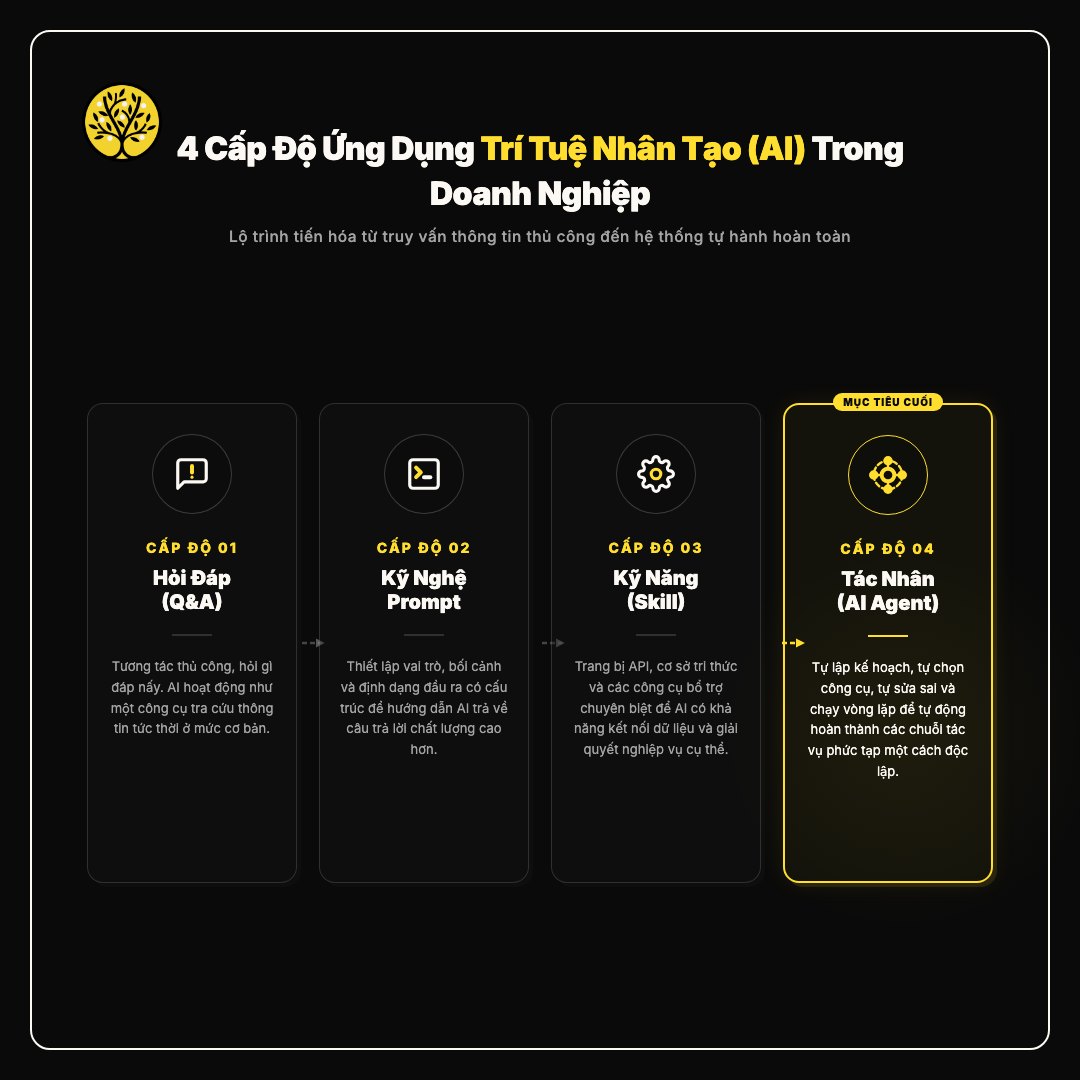
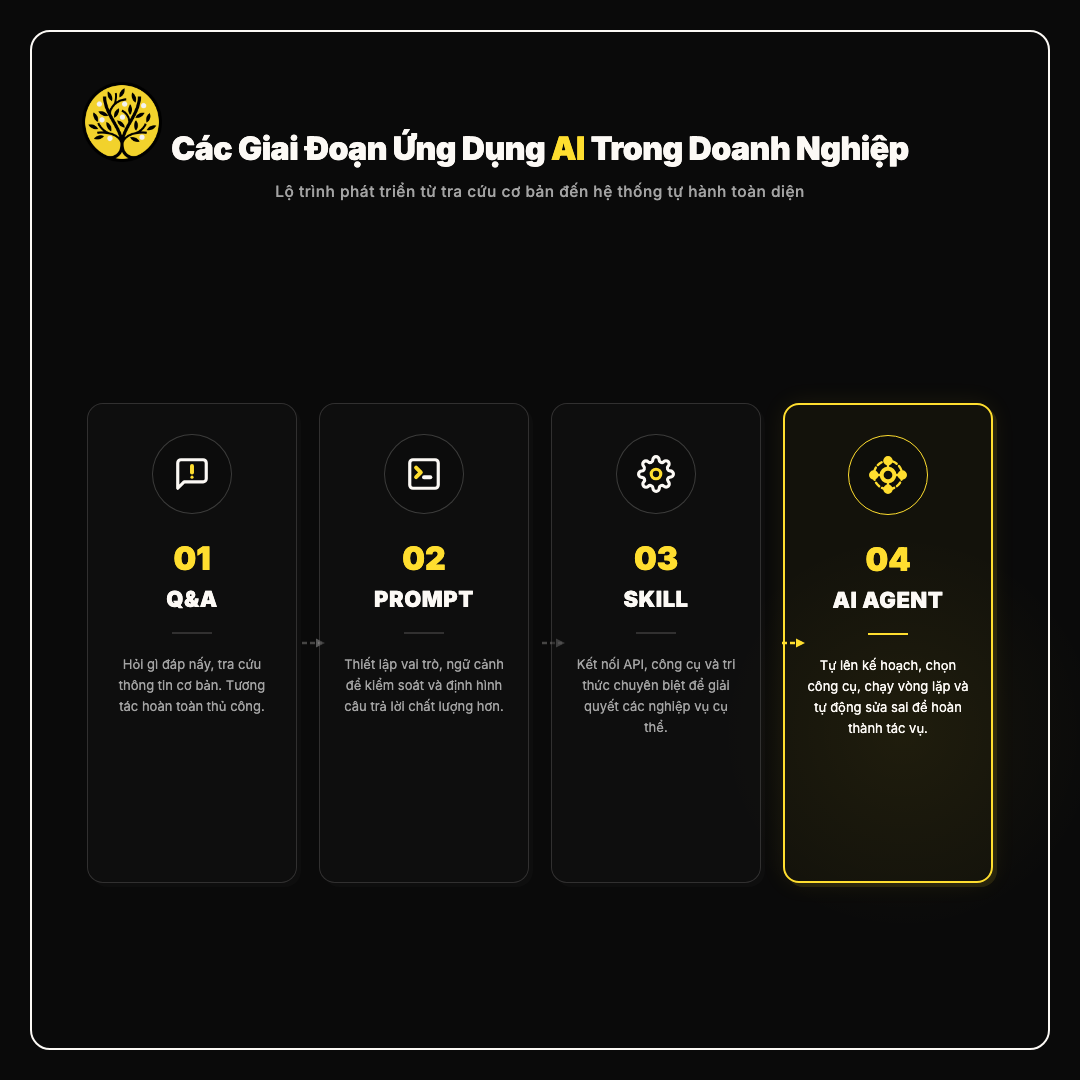
design: simplify title, stage numbers, and titles in AI stages evolution visual

diff --git a/ai_stages_evolution.html b/ai_stages_evolution.html
@@ -130,24 +130,11 @@
       transition: all 0.3s ease;
     }
 
-    /* AI Agent Card Highlighted */
+     /* AI Agent Card Highlighted */
     .stage-card.highlighted {
       border: 2px solid var(--accent-yellow);
       background: rgba(255, 222, 47, 0.04);
       box-shadow: 0 0 25px rgba(255, 222, 47, 0.08), 4px 4px 0px rgba(255, 222, 47, 0.1);
-    }
-
-    .stage-card.highlighted::before {
-      content: "MỤC TIÊU CUỐI";
-      position: absolute;
-      top: -12px;
-      background: var(--accent-yellow);
-      color: var(--bg-dark);
-      font-size: 10px;
-      font-weight: 900;
-      padding: 3px 10px;
-      border-radius: 20px;
-      letter-spacing: 1px;
     }
 
     /* Icon Area */
@@ -171,20 +158,20 @@
 
     /* Stage Number */
     .stage-number {
-      font-size: 14px;
-      font-weight: 800;
+      font-size: 32px;
+      font-weight: 900;
       color: var(--accent-yellow);
-      letter-spacing: 2px;
-      margin-bottom: 10px;
+      margin-bottom: 8px;
     }
 
     /* Title */
     .stage-title {
-      font-size: 20px;
-      font-weight: 850;
+      font-size: 22px;
+      font-weight: 900;
       color: var(--text-light);
       margin-bottom: 20px;
       line-height: 1.2;
+      letter-spacing: 0.5px;
     }
 
     /* Divider Line */
@@ -247,9 +234,9 @@
     <!-- Header chứa headline câu quote -->
     <div class="board-header">
       <h1 class="main-title">
-        4 Cấp Độ Ứng Dụng <span class="highlight">Trí Tuệ Nhân Tạo (AI)</span> Trong Doanh Nghiệp
+        Các Giai Đoạn Ứng Dụng <span class="highlight">AI</span> Trong Doanh Nghiệp
       </h1>
-      <p class="sub-title">Lộ trình tiến hóa từ truy vấn thông tin thủ công đến hệ thống tự hành hoàn toàn</p>
+      <p class="sub-title">Lộ trình phát triển từ tra cứu cơ bản đến hệ thống tự hành toàn diện</p>
     </div>
     
     <!-- Flow Container holding Cards and Arrows -->
@@ -288,11 +275,11 @@
             <circle cx="12" cy="14" r="1" fill="var(--accent-yellow)" stroke="none"/>
           </svg>
         </div>
-        <div class="stage-number">CẤP ĐỘ 01</div>
-        <h2 class="stage-title">Hỏi Đáp<br>(Q&A)</h2>
+        <div class="stage-number">01</div>
+        <h2 class="stage-title">Q&A</h2>
         <div class="card-divider"></div>
         <p class="stage-desc">
-          Tương tác thủ công, hỏi gì đáp nấy. AI hoạt động như một công cụ tra cứu thông tin tức thời ở mức cơ bản.
+          Hỏi gì đáp nấy, tra cứu thông tin cơ bản. Tương tác hoàn toàn thủ công.
         </p>
       </div>
 
@@ -305,11 +292,11 @@
             <line x1="12" y1="14" x2="16" y2="14" stroke="currentColor" stroke-width="2.5"/>
           </svg>
         </div>
-        <div class="stage-number">CẤP ĐỘ 02</div>
-        <h2 class="stage-title">Kỹ Nghệ<br>Prompt</h2>
+        <div class="stage-number">02</div>
+        <h2 class="stage-title">PROMPT</h2>
         <div class="card-divider"></div>
         <p class="stage-desc">
-          Thiết lập vai trò, bối cảnh và định dạng đầu ra có cấu trúc để hướng dẫn AI trả về câu trả lời chất lượng cao hơn.
+          Thiết lập vai trò, ngữ cảnh để kiểm soát và định hình câu trả lời chất lượng hơn.
         </p>
       </div>
 
@@ -321,11 +308,11 @@
             <path d="M19.4 15a1.65 1.65 0 0 0 .33 1.82l.06.06a2 2 0 1 1-2.83 2.83l-.06-.06a1.65 1.65 0 0 0-1.82-.33 1.65 1.65 0 0 0-1 1.51V21a2 2 0 0 1-4 0v-.09A1.65 1.65 0 0 0 9 19.4a1.65 1.65 0 0 0-1.82.33l-.06.06a2 2 0 1 1-2.83-2.83l.06-.06a1.65 1.65 0 0 0 .33-1.82 1.65 1.65 0 0 0-1.51-1H3a2 2 0 0 1 0-4h.09A1.65 1.65 0 0 0 4.6 9a1.65 1.65 0 0 0-.33-1.82l-.06-.06a2 2 0 1 1 2.83-2.83l.06.06a1.65 1.65 0 0 0 1.82.33H9a1.65 1.65 0 0 0 1-1.51V3a2 2 0 0 1 4 0v.09a1.65 1.65 0 0 0 1 1.51 1.65 1.65 0 0 0 1.82-.33l.06-.06a2 2 0 1 1 2.83 2.83l-.06.06a1.65 1.65 0 0 0-.33 1.82V9a1.65 1.65 0 0 0 1.51 1H21a2 2 0 0 1 0 4h-.09a1.65 1.65 0 0 0-1.51 1z" />
           </svg>
         </div>
-        <div class="stage-number">CẤP ĐỘ 03</div>
-        <h2 class="stage-title">Kỹ Năng<br>(Skill)</h2>
+        <div class="stage-number">03</div>
+        <h2 class="stage-title">SKILL</h2>
         <div class="card-divider"></div>
         <p class="stage-desc">
-          Trang bị API, cơ sở tri thức và các công cụ bổ trợ chuyên biệt để AI có khả năng kết nối dữ liệu và giải quyết nghiệp vụ cụ thể.
+          Kết nối API, công cụ và tri thức chuyên biệt để giải quyết các nghiệp vụ cụ thể.
         </p>
       </div>
 
@@ -345,11 +332,11 @@
             <line x1="5" y1="12" x2="8" y2="12" stroke="currentColor" stroke-width="1.5"/>
           </svg>
         </div>
-        <div class="stage-number">CẤP ĐỘ 04</div>
-        <h2 class="stage-title">Tác Nhân<br>(AI Agent)</h2>
+        <div class="stage-number">04</div>
+        <h2 class="stage-title">AI AGENT</h2>
         <div class="card-divider"></div>
         <p class="stage-desc">
-          Tự lập kế hoạch, tự chọn công cụ, tự sửa sai và chạy vòng lặp để tự động hoàn thành các chuỗi tác vụ phức tạp một cách độc lập.
+          Tự lên kế hoạch, chọn công cụ, chạy vòng lặp và tự động sửa sai để hoàn thành tác vụ.
         </p>
       </div>
 